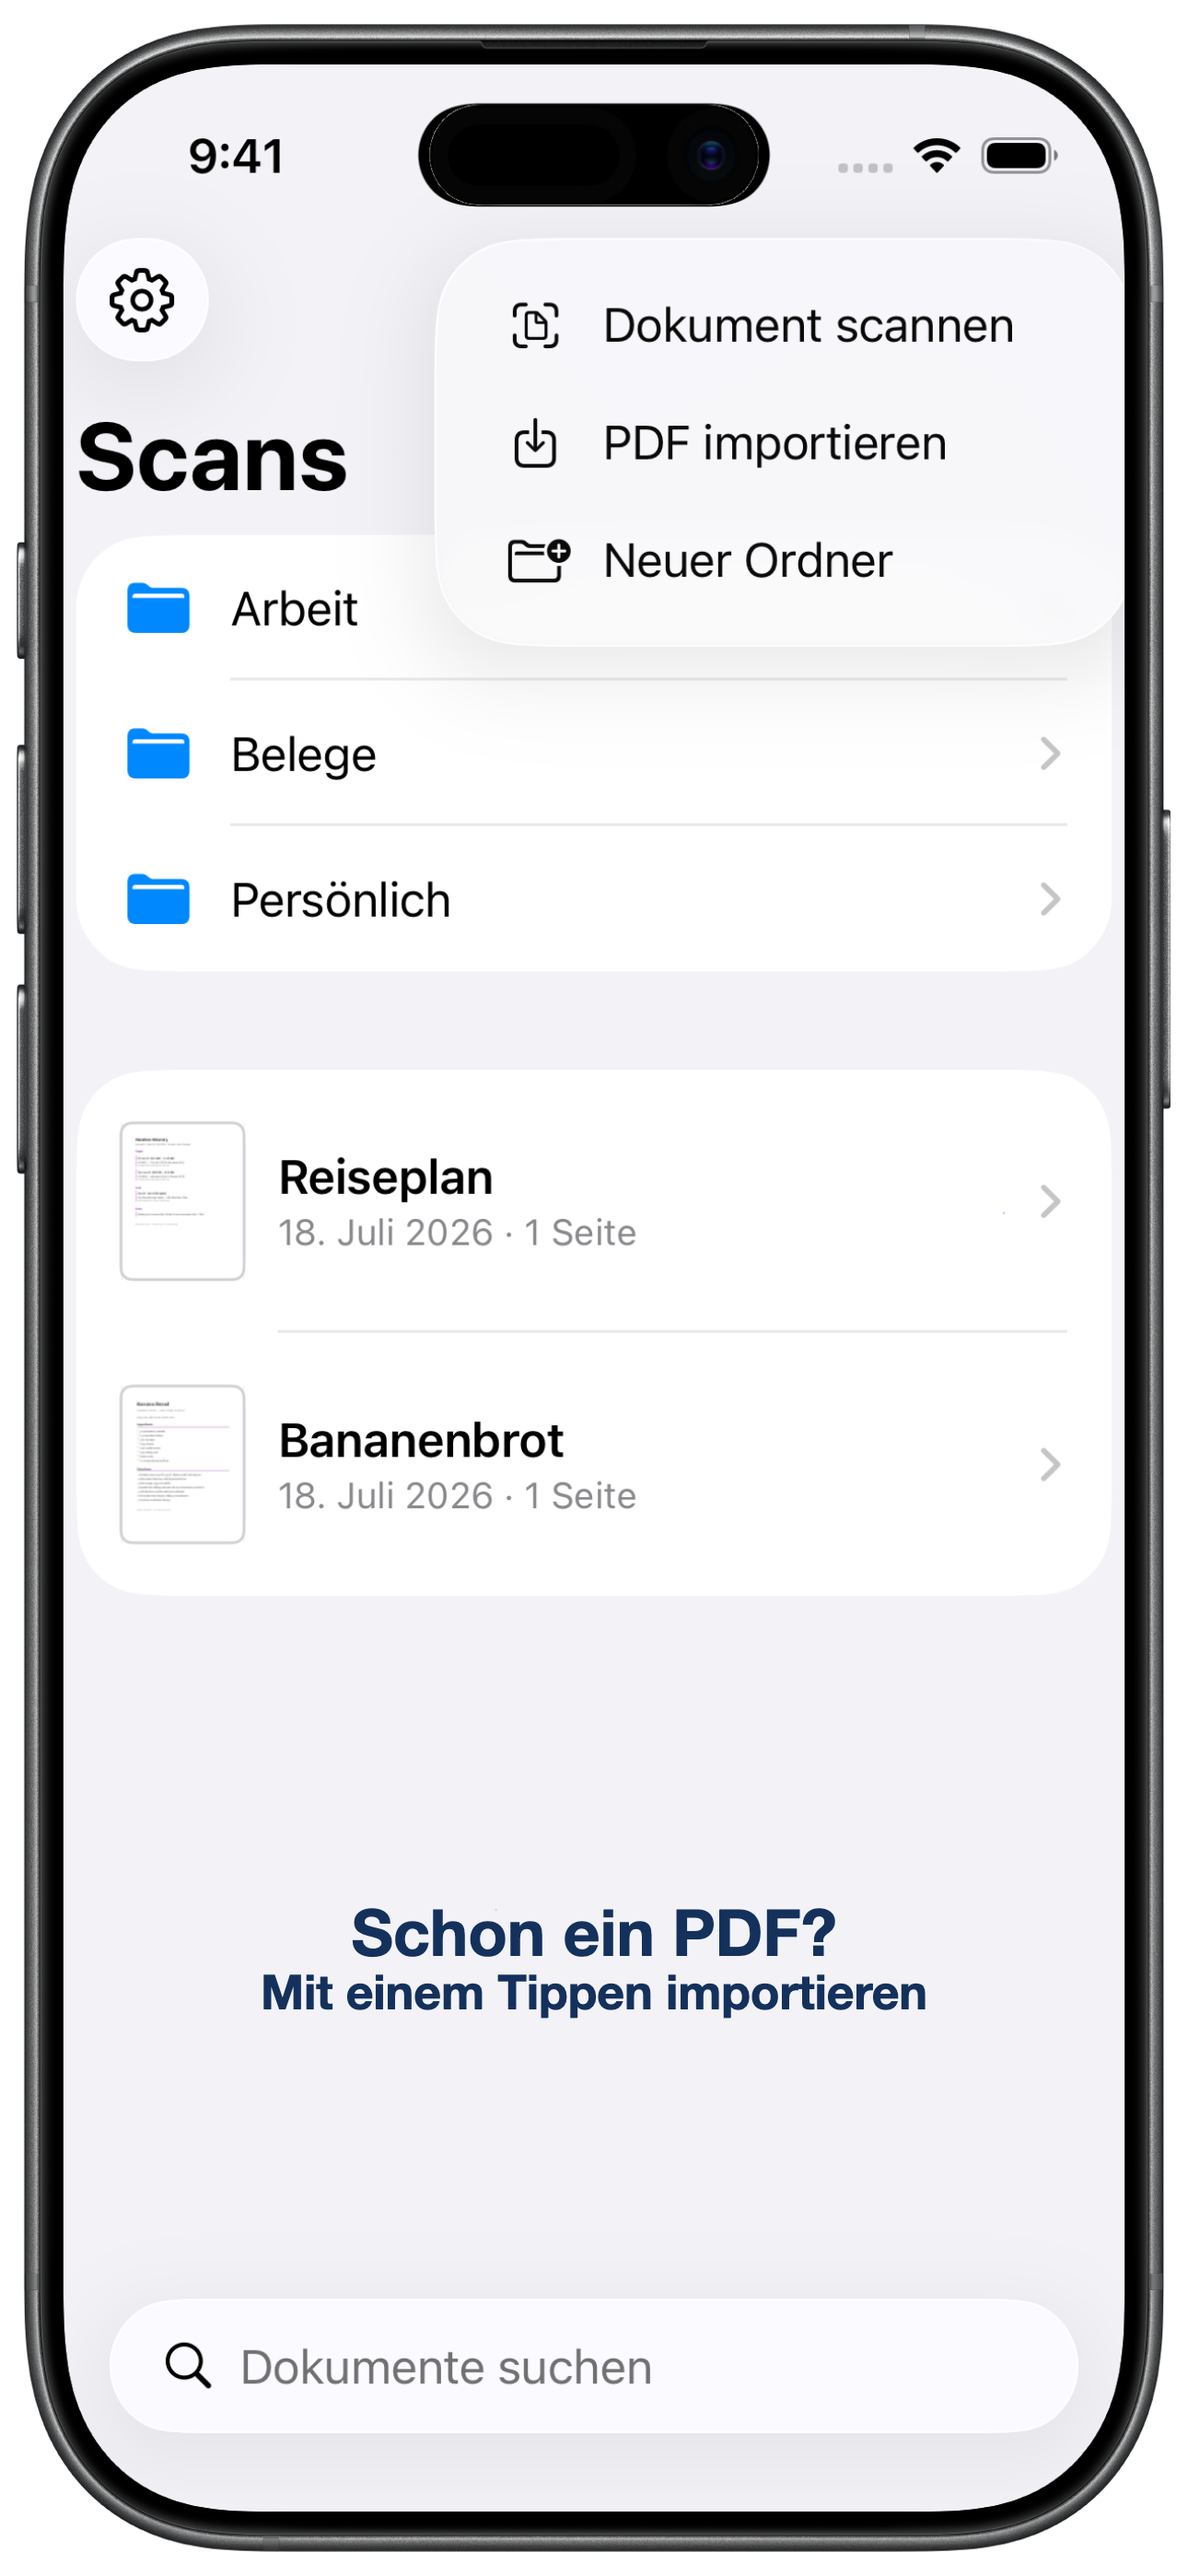
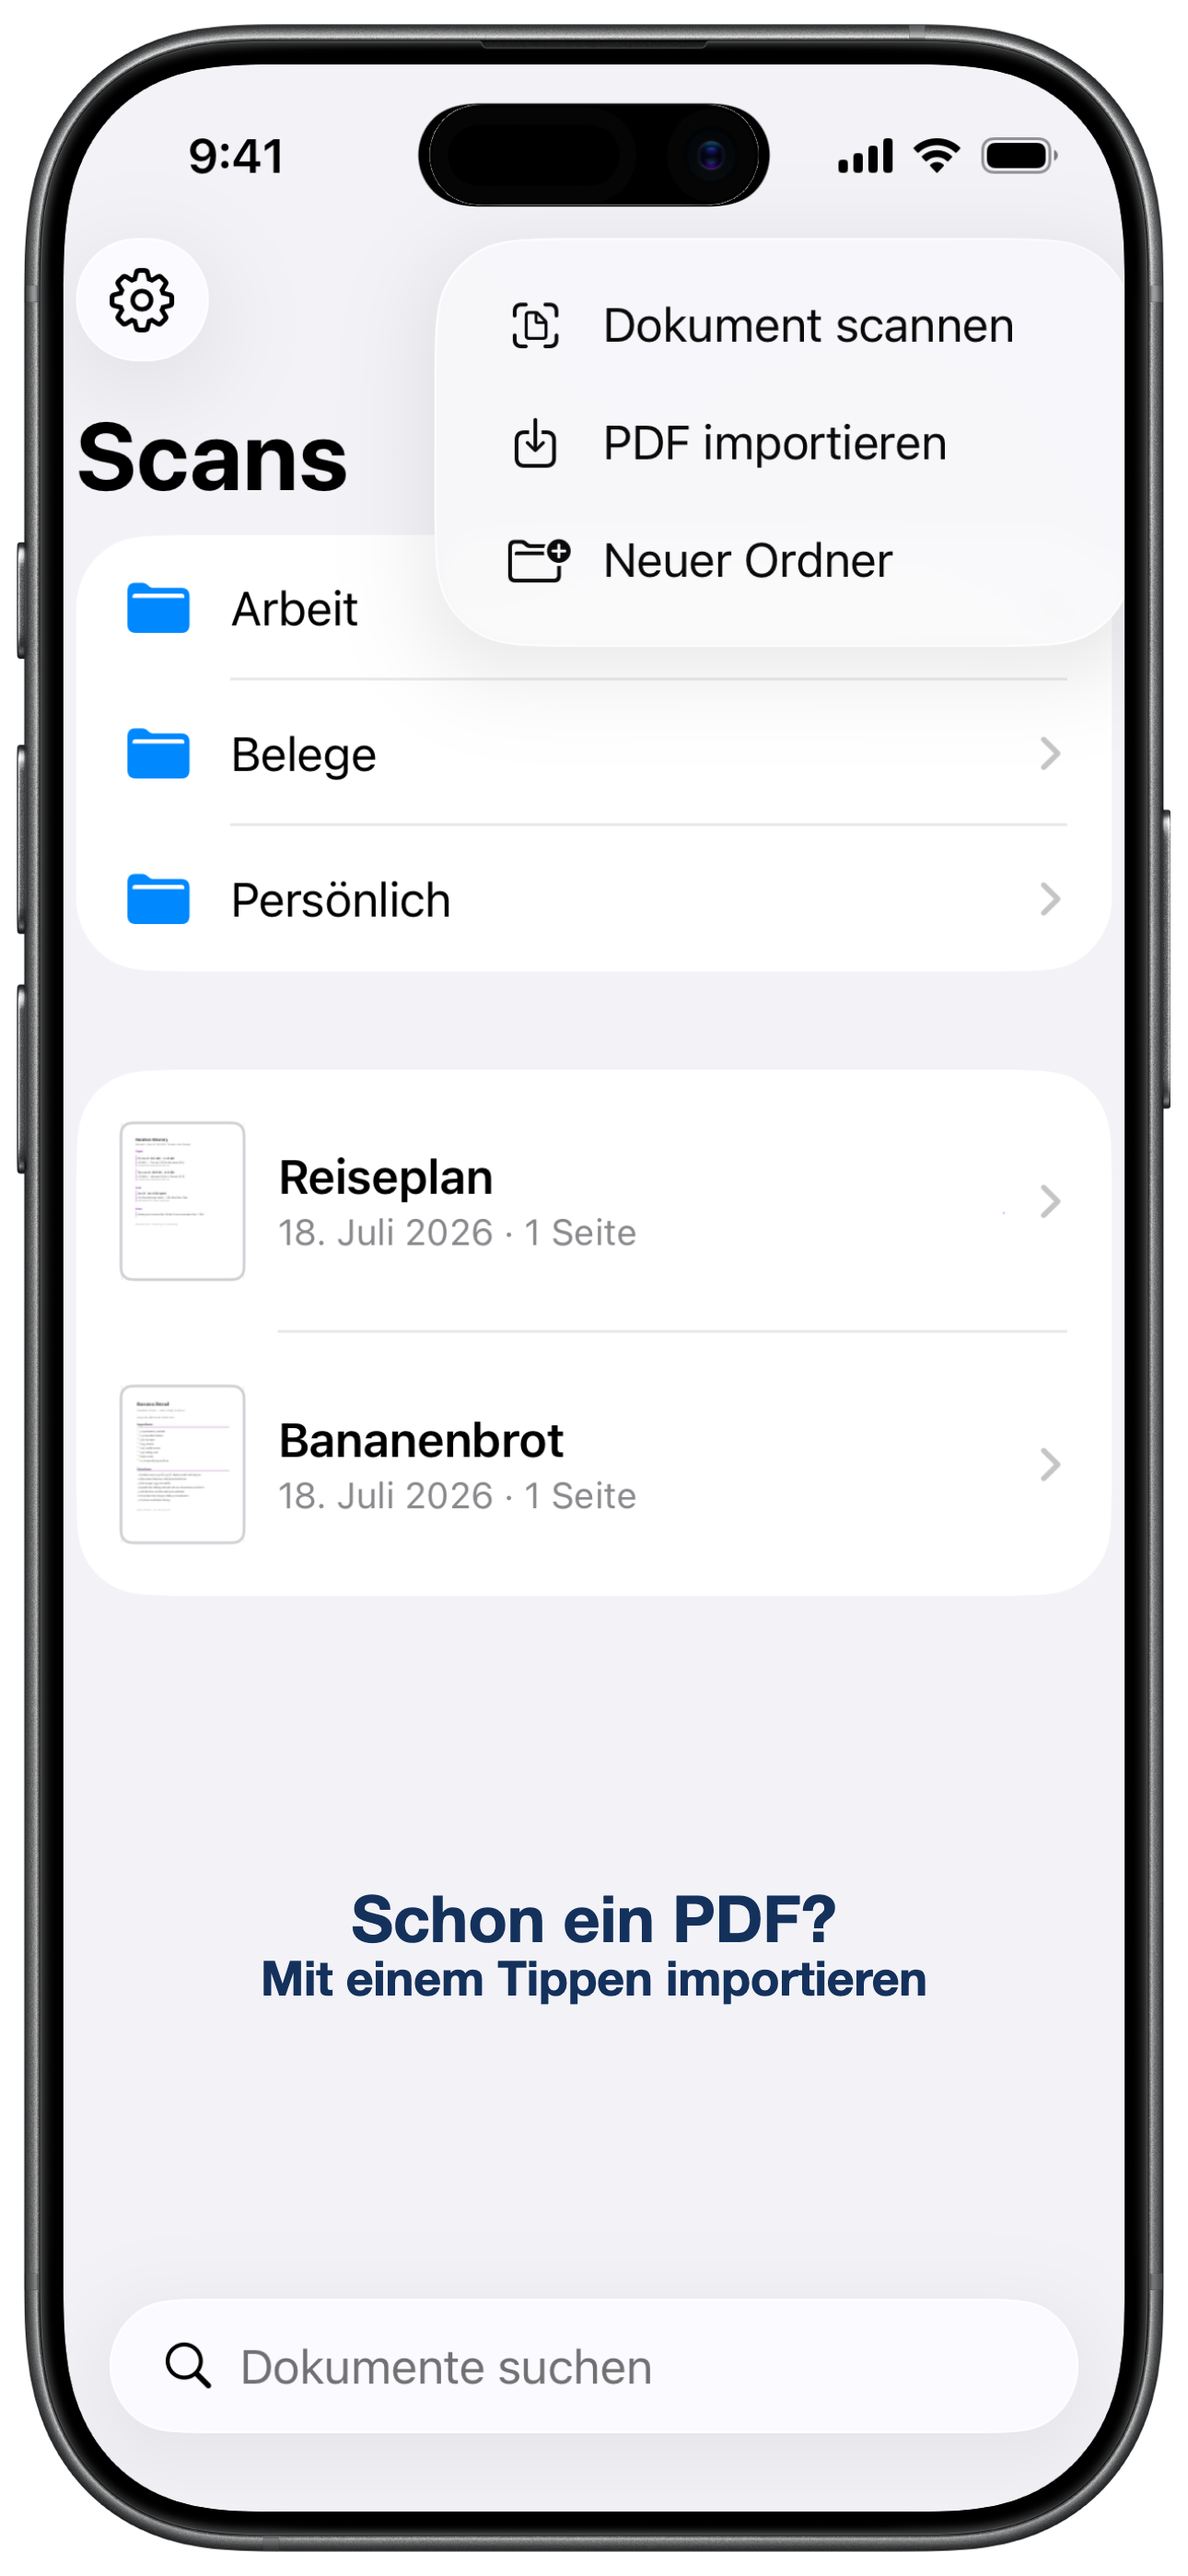
marketing: v3.4 gallery complete — 7 shots x 7 locales, 49 stills
All 15 captures reviewed and rendered. Shots 2, 3 and 4 are the new ones; 1 is
the recaptioned scan frame; 5-7 carry forward unchanged.

Italian needed its own caption position. Its document starts 131px higher than
the other four languages in shot 2, so a caption at the shared position would
have sat 7px from the page edge. Measured rather than eyeballed: a script walks
each capture's centre rows to find the nav bar, the find bar's divider and the
first sustained white row, converts to final canvas coordinates (the capture is
1206x2622 and caption.sh scales it into a 1152x2656 cutout at offset y=70, so
final = 70 + y*1.013), and centres the caption in the gap. English, Spanish,
French and German came out identical at 651; Italian at 586.

The same method put shot 4 at 2045, within 15px of the 2060 that shipped for
three releases -- a useful check that the measurement is sound.

Shot 2's caption reuses the app's OWN localized tip title ("Search inside your
scans" / "In deinen Scans suchen" / "Cerca nelle tue scansioni"), so the
screenshot and the app say the same thing rather than two translations of one
idea. It is a single line: the second line was dropped as weak English, which
also means one less string to get subtly wrong in five languages.

Shots 3 and 4 keep the captions that already shipped, with one fix: the English
"Sign and date it — no printer" loses its em dash for a comma, which is what
es/fr already did.
[…]

Changed region(s): [[0.2171, 0.7157, 0.7752, 0.7779]]

diff --git a/marketing/app-preview/render-captions.py b/marketing/app-preview/render-captions.py
@@ -50,12 +50,19 @@ CHROME = "marketing/templates/PocketScannerAppPreviewChrome1290x2796.png"
 # re-framed, and the two facts have to stay in step.
 SHARED_FRAME_SHOT = 1
 
+# es-MX and fr-CA are metadata-only regional variants: same binary, same UI language as
+# their parent, so they ride the parent's captures and differ only in caption wording
+# (fr-CA "courriel"/"numérisez" vs fr "e-mail"/"scannez"). Restored for v3.4 — it existed
+# before the v3.1 restructure, was dropped when v3.2 added two FULL languages, and is
+# needed again now that captures are per-language.
+BASE_LANG = {"es-MX": "es", "fr-CA": "fr"}
+
 
 def base_for(bases_dir, lang, shot):
     """Path to the uncaptioned capture for one shot, or None if missing."""
     if shot == SHARED_FRAME_SHOT:
         return SCAN2A
-    path = f"{bases_dir}/{lang}/{shot}.png"
+    path = f"{bases_dir}/{BASE_LANG.get(lang, lang)}/{shot}.png"
     return path if os.path.exists(path) else None
 
 
